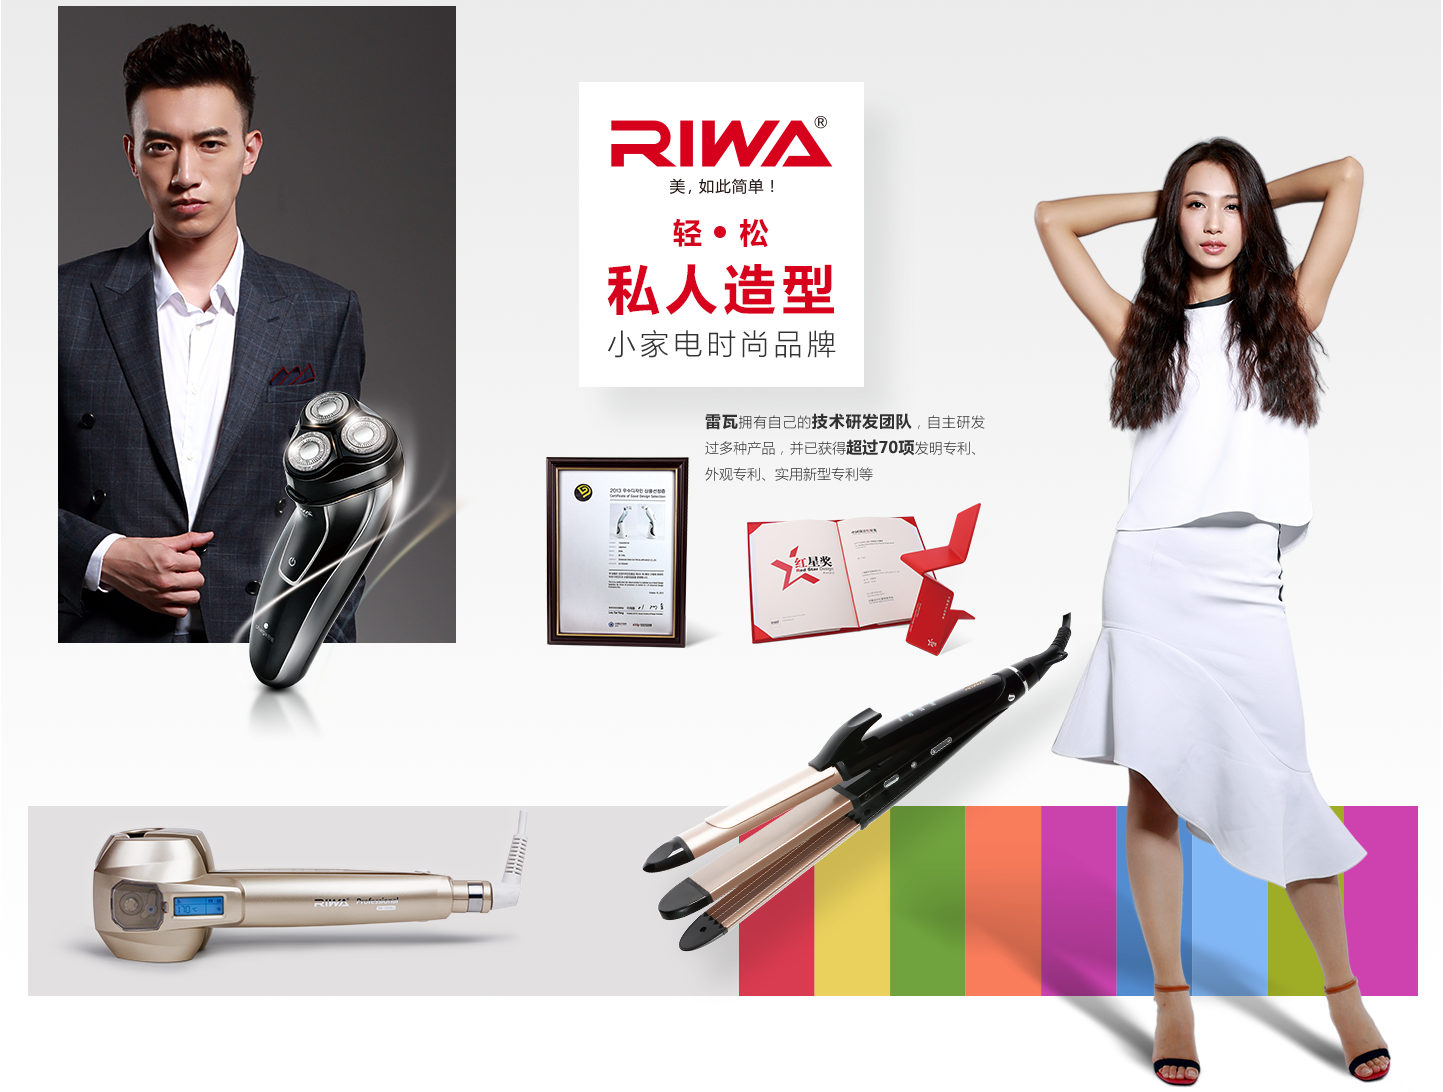
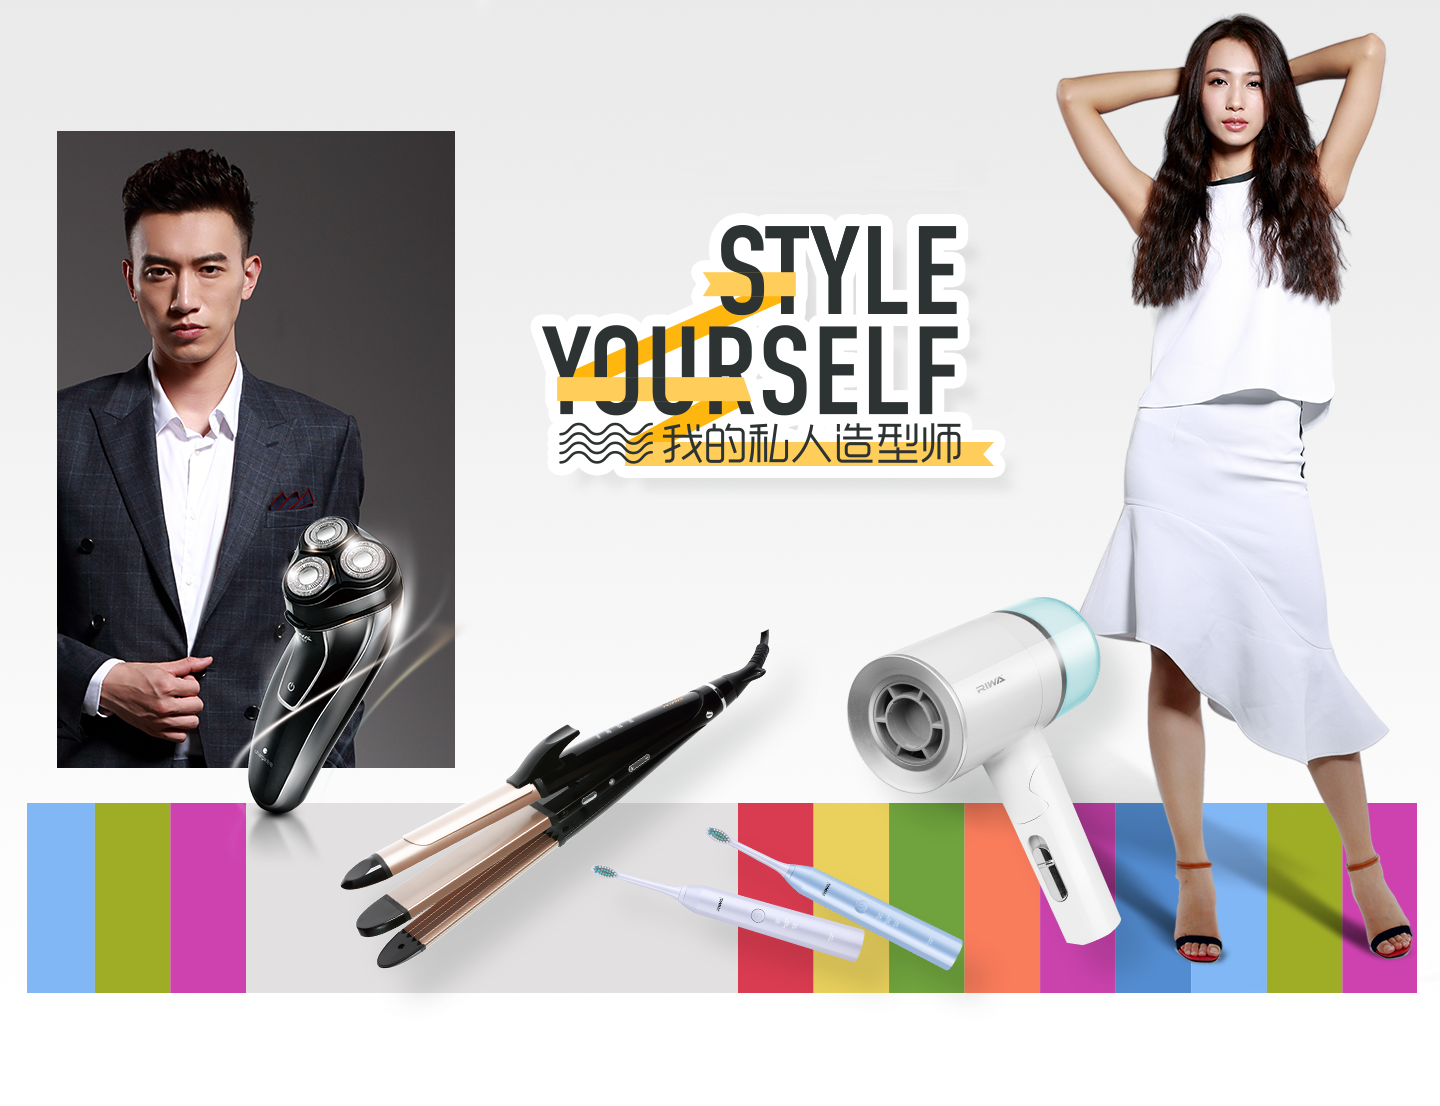
index edit

diff --git a/index.html b/index.html
@@ -14,15 +14,27 @@
 </head>
 
 <body style="background: #ebeaea;" class=" ext-webkit ext-chrome ext-mac">
-    <div class="index_banner">
+    <div class="index_banner z-index-2">
         <div class="head index_head">
             <!--head start-->
-                <!--#include file="inc/head.htm" -->
-            <!--head end-->
+            <!--#include file="inc/head.htm" -->
+            <!--head end-->       
+        </div>
+         <div class="idx_banner_txt">
+            <span class="idx_banner_txt_en">
+                <small>TO BE BEAUTIFUL<br> </small>
+                <span class="idx_banner_txt_en_big">SO SIMPLE<br></span>
+                 
+            </span>
+            
+            <span class="idx_banner_txt_cn">美，如此简单</span>
         </div>
         <img src="static/images/index_01.png" class="index_banner_img">
     </div>
     <div class="container index_two">
+        <div class="index_two_txt">
+            为每一位用户，每一位女性带来轻松简单的美丽，<br> 主张 <span class="fontRed">“每个人都可以通过给自己造型的小改变，去大胆创造属于自己的美”</span>。
+        </div>
         <img src="static/images/ers_03.png">
     </div>
     <div class="index_three ers1">
@@ -41,7 +53,7 @@
                         <img src="static/images/index_02_03-02.png">
                         <div class="index_three_fu index_three_fu1">
                             <p class="eng"> HAIR <br>TOOLS</p>
-                            <p class="index_three_zw">卷直发棒 </p>
+                            <p class="index_three_zw">烫发器 </p>
                             <p class="index_three_num"> 01</p>
                         </div>
                     </a>
@@ -88,7 +100,7 @@
                     <img src="static/images/index_02_14.png">
                     <div class="index_three_fu index_three_fu4">
                     <p class="eng">
-                    BEAUTY
+                    BEAUTY<br>
                     HEALTH <br>
                     SERIES <br>
                     </p>
@@ -110,10 +122,10 @@
     <div class="index_four">
         <div class="index_four_tl container">
             <p class="index_three_tl_eng">
-                MAKE YOURSELF STYLE
+                STYLE YOURSELF
             </p>
             <p class="index_three_tl_china">
-                做我们的私人造型师，教您轻松简单做出百变时尚造型
+                我的私人造型师，百变造型随心变
             </p>
             <div class="index_four_line">
                 <span>
@@ -130,7 +142,7 @@
                         </p>
                         <div class="index_four_text_ul_text" style="border-color: #70a33d;">
                             <div class="index_four_text_ul_text_nr">
-                                如果说学会美妆是你接近时尚的基石，学会搭配服装是你走入
+                                个性潮流发型，下一个时尚博主就是你
                             </div>
                         </div>
                     </a>
@@ -142,7 +154,7 @@
                         </p>
                         <div class="index_four_text_ul_text" style="border-color: #ead15d;">
                             <div class="index_four_text_ul_text_nr">
-                                如果说学会美妆是你接近时尚的基石，学会搭配服装是你走入
+                                抓住未来发型趋势，走在时尚前沿
                             </div>
                         </div>
                     </a>
@@ -154,7 +166,7 @@
                         </p>
                         <div class="index_four_text_ul_text" style="border-color: #64a6eb;">
                             <div class="index_four_text_ul_text_nr">
-                                如果说学会美妆是你接近时尚的基石，学会搭配服装是你走入
+                                #不可思议的10分钟#，10分钟完成华丽蜕变
                             </div>
                         </div>
                     </a>
@@ -166,7 +178,7 @@
                         </p>
                         <div class="index_four_text_ul_text" style="border-color: #ce42af;">
                             <div class="index_four_text_ul_text_nr">
-                                如果说学会美妆是你接近时尚的基石，学会搭配服装是你走入
+                                魔发达人，秀出你的Style
                             </div>
                         </div>
                     </a>
@@ -197,63 +209,13 @@
             </li>
         </ul>
         <div class="index_four_more">
-            <div class="index_four_more_main container">
+            <div class="index_four_more_main ">
                 <a href="#" class="eng">MORE</a>
             </div>
         </div>
     </div>
-    <div class="index_five">
-        <div class="container">
-            <div class="index_five_tl">
-                雷瓦发展全渠道品牌展示
-            </div>
-            <ul class="clearfix index_five_ul">
-                <li class="col-md-3 col-sm-3 col-xs-12">
-                    <a href="#">
-                    <img src="static/images/ers_09.png">
-                    <p class="index_fiveb_tl">
-                    电商渠道
-                    </p>
-                    <div class="index_five_text">
-                    全网整合营销，入驻天猫，天猫超市，京东，亚马逊，唯品会等主流电商平台。
-                    </div>
-                    </a>
-                </li>
-                <li class="col-md-3 col-sm-3 col-xs-12">
-                    <a href="#">
-                    <img src="static/images/ers-04.png">
-                    <p class="index_fiveb_tl">
-                    大型商超
-                    </p>
-                    <div class="index_five_text">
-                    终端品牌展示，进驻全国多家高端百货商场，大型连锁超市，个护连锁家电连锁卖场等。
-                    </div>
-                    </a>
-                </li>
-                <li class="col-md-3 col-sm-3 col-xs-12">
-                    <a href="#">
-                    <img src="static/images/ers_11.png">
-                    <p class="index_fiveb_tl">
-                    电视购物
-                    </p>
-                    <div class="index_five_text">
-                    与全国大多数电视购物平台达成长期战略合作，近距离贴近用户介绍产品功能及轻松造型，直观感受雷瓦的造型魅力。
-                    </div>
-                    </a>
-                </li>
-                <li class="col-md-3 col-sm-3 col-xs-12">
-                    <a href="#">
-                    <img src="static/images/ers_13.png">
-                    <p class="index_fiveb_tl">
-                    精品礼赠
-                    </p>
-                    <div class="index_five_text">
-                    以全新的客户管理模式来应对客户的全新变化，服务客户涵盖通信行业，金融行业，旅游业，酒店业，航空业及其他垂直平台。
-                    </div>
-                    </a>
-                </li>
-            </ul>
-        </div>
+    <div class="caitiao container">
+        <img src="static/images/about1_46.png">
     </div>
     <!--footer start-->
     <!--#include file="inc/footer.htm" -->

diff --git a/static/css/main.css b/static/css/main.css
@@ -8,13 +8,72 @@
     position: relative;
 }
 
+.index_banner.z-index-2 {
+    z-index: 2;
+}
+
+.idx_banner_txt {
+    position: absolute;
+    display: inline-block;
+    left: 4%;
+    top:30%;
+}
+
+.idx_banner_txt .idx_banner_txt_en {
+    font-family: "Didot";
+    line-height: 90%;
+}
+
+.idx_banner_txt .idx_banner_txt_en small {
+    font-size: 25px;
+    color: #464646;
+    line-height: 1;
+}
+
+.idx_banner_txt .idx_banner_txt_en .idx_banner_txt_en_big {
+    font-size: 50px;
+    color: #646464;
+    line-height: 1;
+}
+
+.idx_banner_txt .idx_banner_txt_cn{
+    text-align: center;
+    color: #d6001d;
+    font-size: 16px;
+    display: block;
+}
 .index_two img {
     width: 100%;
     vertical-align: middle;
 }
 
 .index_two {
+    position: relative;
     margin-top: -138px;
+}
+
+.index_two .index_two_txt {
+    position: absolute;
+    width: 50%;
+    height: 40px;
+    line-height: 20px;
+    text-align: center;
+    left: 50%;
+    top: 50%;
+    margin-top: -30px;
+    margin-left: -19%;
+    font-size: 12px;
+}
+
+@media (max-width:1024px) {
+    .index_two .index_two_txt {
+        width: 40%;
+        margin-left: -16%;
+    }
+}
+
+.index_two .index_two_txt .fontRed {
+    color: #d7001d;
 }
 
 .index_head {
@@ -51,8 +110,7 @@
     background: url(../images/indextlbg_02.jpg) no-repeat center;
     background-size: cover;
     text-align: center;
-    padding:0px 0px 40PX;
-   
+    padding: 0px 0px 40PX;
 }
 
 .index_three_tl_eng {
@@ -94,7 +152,13 @@
     color: #c0a487;
     position: absolute;
     left: 30px;
-    top: 30%;
+    top: 28%;
+}
+
+@media (max-width:1024px) {
+    .index_three_fu1 {
+        top: 20%;
+    }
 }
 
 .eng {
@@ -110,6 +174,22 @@
 .index_three_num {
     font-size: 120px;
     font-family: arial;
+}
+
+.ers1 .index_three_fu4 .index_three_num {
+    padding-bottom: 80px;
+}
+
+@media (max-width: 1101px) {
+    .ers1 .index_three_fu4 .index_three_num {
+        padding-bottom: 40px;
+    }
+}
+
+@media (max-width: 889px) {
+    .ers1 .index_three_fu4 .index_three_num {
+        padding-bottom: 10px;
+    }
 }
 
 .index_three_fu2 {
@@ -2091,7 +2171,7 @@
     background: url(../images/pro_04.jpg) no-repeat top center;
     background-size: cover;
     /*margin-top: -40px;*/
-      margin-top: 0px;
+    margin-top: 0px;
     position: relative;
     z-index: 1;
     padding-top: 40px;
